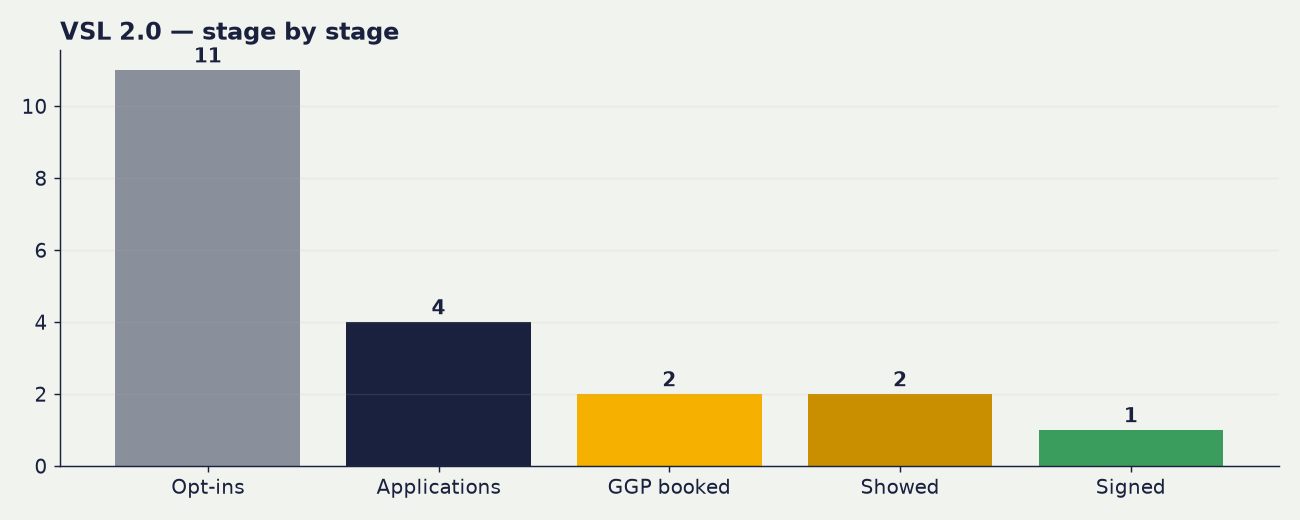
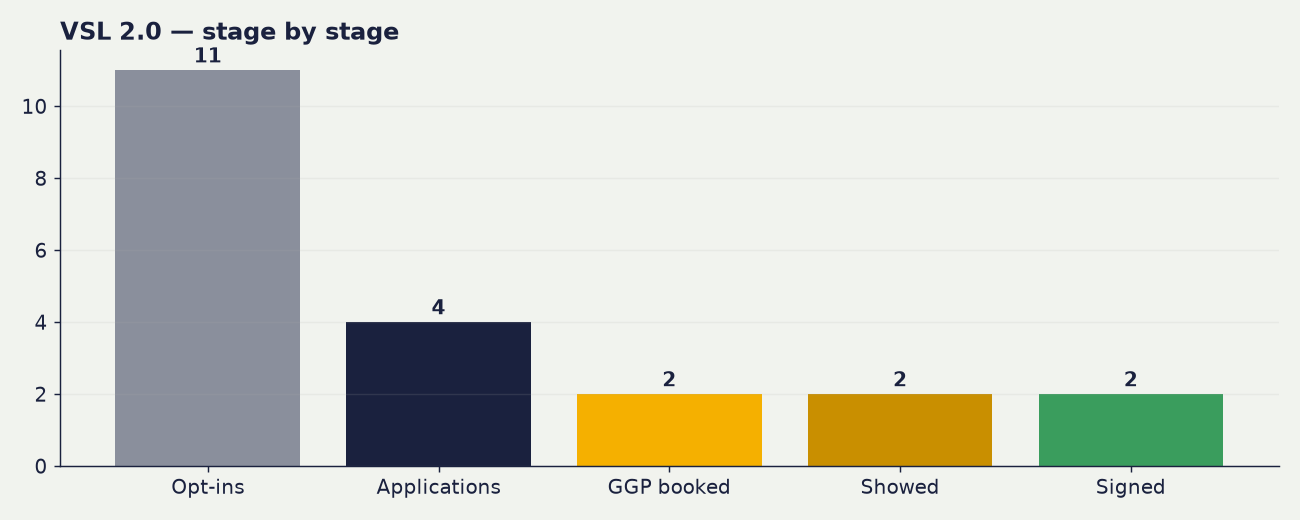
nightly dashboard update 2026-09-06 11:08

Changed region(s): [[0.8, 0.7077, 0.9538, 0.8308]]

diff --git a/content/index.md b/content/index.md
@@ -1,17 +1,17 @@
 # 📈 VSL Funnel Dashboard
 
-_Signups from Stripe (live API). Show-ups from the SBC team Tick Sheet. Spend from Meta. Updated 6 Sep 2026, 04:01 BST, rebuilds nightly._
+_Signups from Stripe (live API). Show-ups from the SBC team Tick Sheet. Spend from Meta. Updated 6 Sep 2026, 11:08 BST, rebuilds nightly._
 
 ## 🎯 The headline — both funnels combined
 
 | | |
 |---|---|
-| **Blended CPA** | **£570** |
+| **Blended CPA** | **£489** |
 | Total spend | **£3,420.53** |
-| Total signups | **6** |
-| Who signed | Conor, Joe Gray-Misiuk, Kirstie Hall, Musa Rahat, Tarik Merrett, Zeeshan Ahmed |
+| Total signups | **7** |
+| Who signed | Conor, Harry, Joe Gray-Misiuk, Kirstie Hall, Musa Rahat, Tarik Merrett, Zeeshan Ahmed |
 
-> £3,421 spent → 6 signed = **£570 blended cost per signup.** VSL 1.0 (mass avatar) and VSL 2.0 (upgraded avatar) share the load: cheap high-volume + premium low-volume blend into one true acquisition cost.
+> £3,421 spent → 7 signed = **£489 blended cost per signup.** VSL 1.0 (mass avatar) and VSL 2.0 (upgraded avatar) share the load: cheap high-volume + premium low-volume blend into one true acquisition cost.
 
 ---
 
@@ -19,8 +19,8 @@ _Signups from Stripe (live API). Show-ups from the SBC team Tick Sheet. Spend fr
 
 | Metric | VSL 1.0 | VSL 2.0 | Combined |
 |---|---|---|---|
-| 🎯 **CPA** | **£573** | **£556** | **£570** |
-| 🤝 Signed | 5 | 1 | **6** |
+| 🎯 **CPA** | **£573** | **£278** | **£489** |
+| 🤝 Signed | 5 | 2 | **7** |
 | 💷 Spent | £2,864.10 | £556.43 | **£3,420.53** |
 | ✅ Showed up | 16 | 2 | **18** |
 | 📞 GGPs booked | 21 | 2 | **23** |
@@ -85,7 +85,7 @@ _Signups from Stripe (live API). Show-ups from the SBC team Tick Sheet. Spend fr
 | 📝 Applications | **4** |
 | 📞 GGPs booked | **2** |
 | ✅ Showed up | **2** |
-| 🤝 Signed | **1** (Conor) |
+| 🤝 Signed | **2** (Conor, Harry) |
 
 **Rates**
 
@@ -94,8 +94,8 @@ _Signups from Stripe (live API). Show-ups from the SBC team Tick Sheet. Spend fr
 | Opt-in → Application | 36% |
 | Application → GGP booked | 50% |
 | GGP show rate | 100% |
-| Show → Sign | 50% |
-| Application → Sign | 25% |
+| Show → Sign | 100% |
+| Application → Sign | 50% |
 
 **Costs**
 
@@ -104,7 +104,7 @@ _Signups from Stripe (live API). Show-ups from the SBC team Tick Sheet. Spend fr
 | Cost per application | £139 |
 | Cost per GGP booked | £278 |
 | Cost per show-up | £278 |
-| **Cost per acquisition (CPA)** | **£556** |
+| **Cost per acquisition (CPA)** | **£278** |
 
 **Ad spend split**
 
@@ -126,4 +126,4 @@ _Signups from Stripe (live API). Show-ups from the SBC team Tick Sheet. Spend fr
 > _Applications + GGP-booked are TRUE daily series (from submission timestamps). Opt-ins have no per-day source in the Opt-ins tab, so opt-ins appear as a total only, not a daily line._
 
 ---
-<!-- Auto-generated by the VSL dashboard nightly pipeline. Do not edit by hand. 6 Sep 2026, 04:01 BST -->
+<!-- Auto-generated by the VSL dashboard nightly pipeline. Do not edit by hand. 6 Sep 2026, 11:08 BST -->
